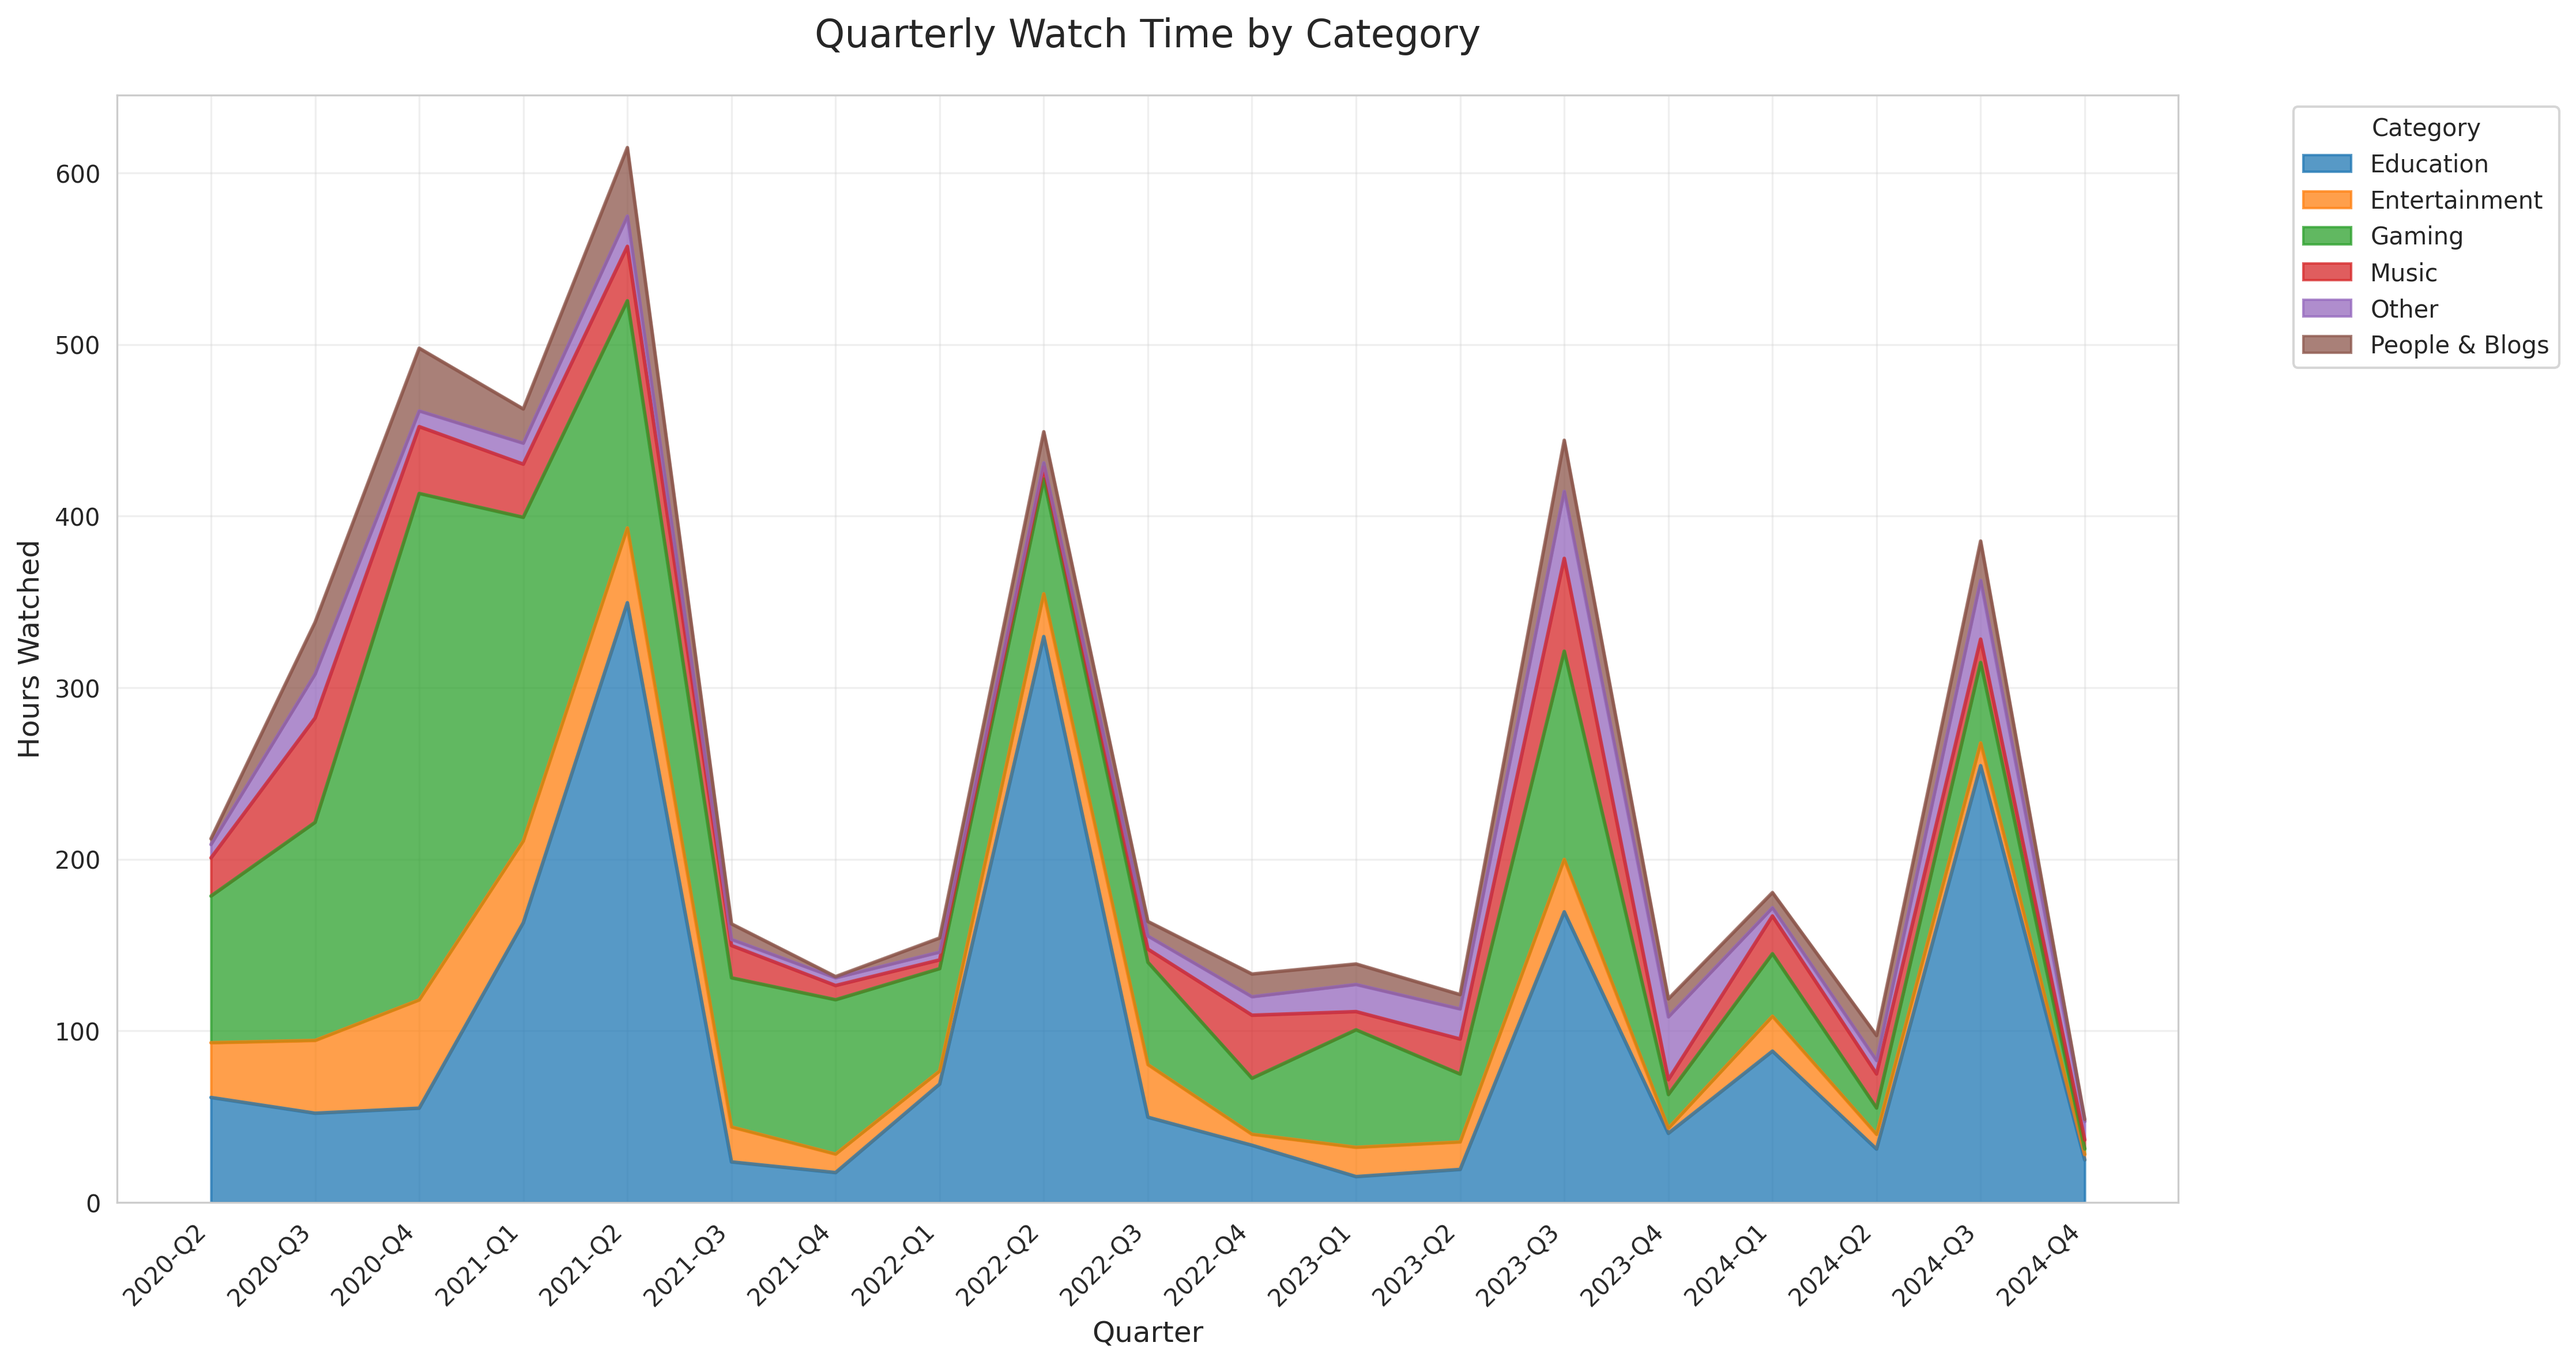
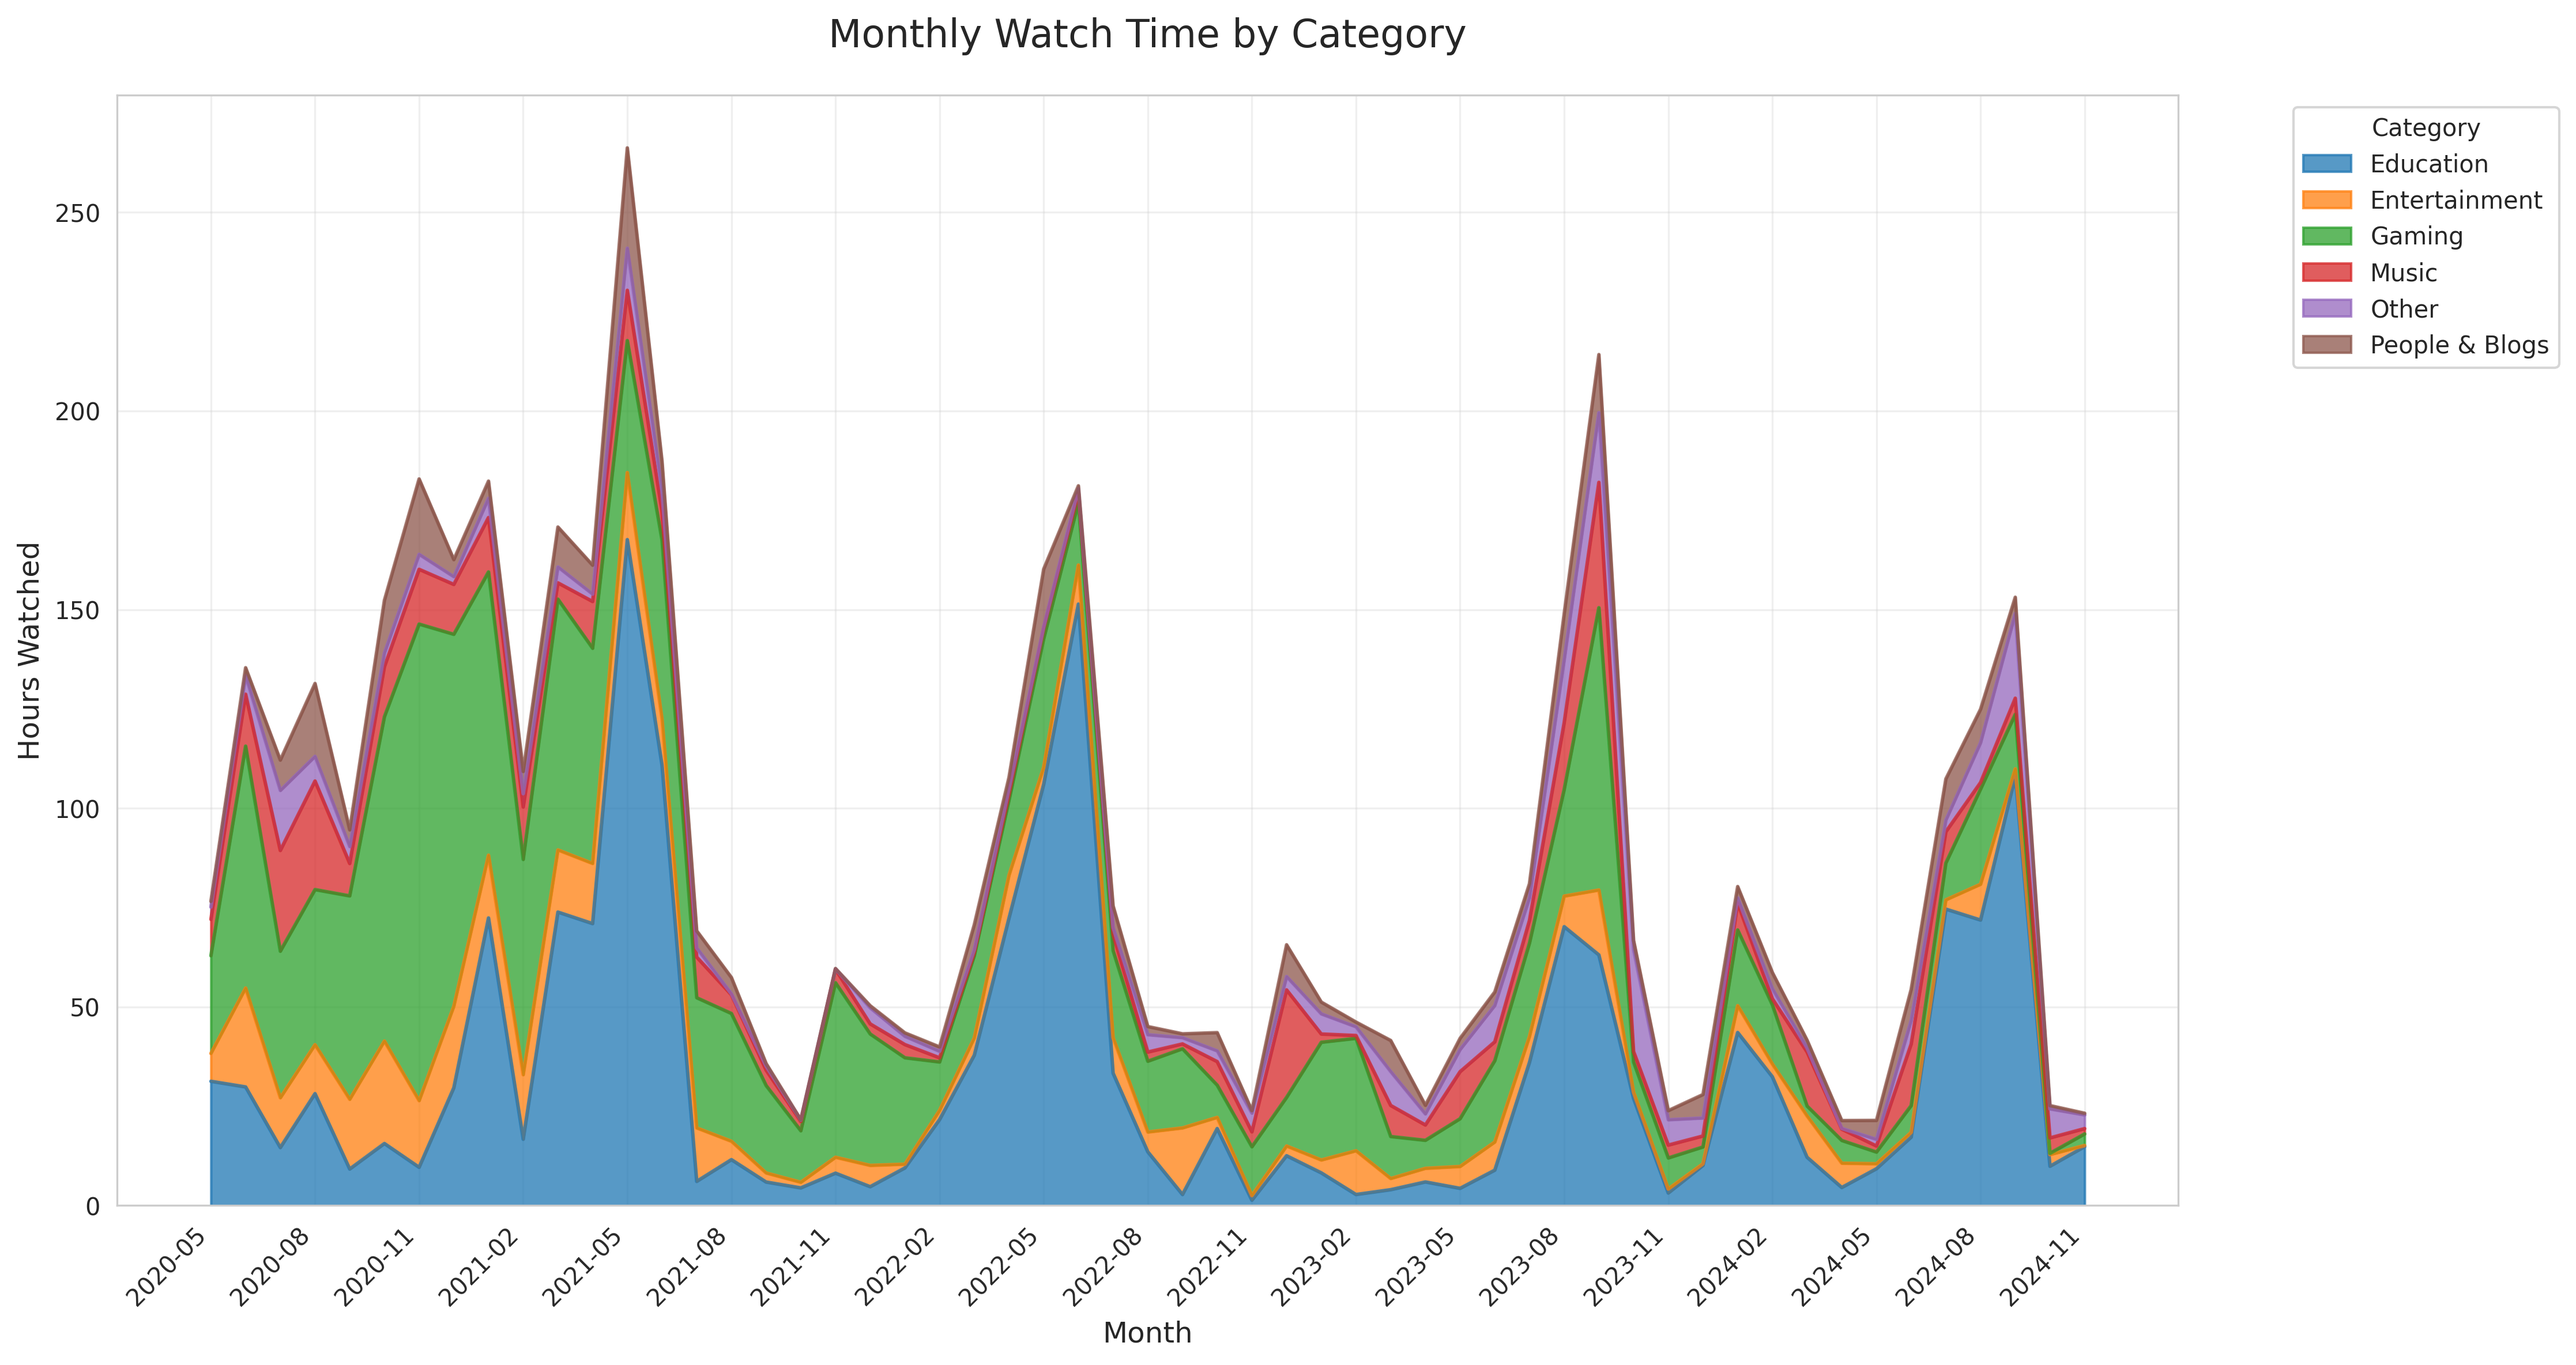
Fixed the format of visualizations

diff --git a/time_series_analysis.py b/time_series_analysis.py
@@ -51,11 +51,11 @@ def create_analysis_plots(df, output_dir='results'):
     plt.savefig(os.path.join(output_dir, 'monthly_pattern.png'), dpi=300, bbox_inches='tight')
     plt.close()
     
-    # 2. Quarterly Category Distribution
+    # 2. Monthly Category Distribution
     plt.figure(figsize=(15, 8))
     
-    # Add quarter information with better formatting
-    df['quarter'] = pd.PeriodIndex(df['watched_on'], freq='Q').astype(str).str.replace('Q', '-Q')
+    # Add month information with better formatting
+    df['month'] = pd.to_datetime(df['watched_on']).dt.strftime('%Y-%m')
     
     # Calculate total duration for each category
     category_totals = df.groupby('category')['duration'].sum().sort_values(ascending=False)
@@ -69,30 +69,34 @@ def create_analysis_plots(df, output_dir='results'):
     
     df['category_grouped'] = df['category'].map(map_category)
     
-    # Create quarterly aggregation
-    quarterly_category = df.pivot_table(
+    # Create monthly aggregation
+    monthly_category = df.pivot_table(
         values='duration',
-        index='quarter',
+        index='month',
         columns='category_grouped',
         aggfunc='sum',
         fill_value=0
     )
     
+    # Sort by month
+    monthly_category = monthly_category.sort_index()
+    
     # Create stacked area chart
-    ax = quarterly_category.plot(
+    ax = monthly_category.plot(
         kind='area',
         stacked=True,
         figsize=(15, 8),
         alpha=0.75  # Add some transparency
     )
     
-    plt.title('Quarterly Watch Time by Category', fontsize=16, pad=20)
-    plt.xlabel('Quarter', fontsize=12)
+    plt.title('Monthly Watch Time by Category', fontsize=16, pad=20)
+    plt.xlabel('Month', fontsize=12)
     plt.ylabel('Hours Watched', fontsize=12)
     
-    # Show all quarters
-    plt.xticks(range(len(quarterly_category)), 
-               quarterly_category.index,
+    # Show every third month
+    n = 3  # Show every 3rd month
+    plt.xticks(range(0, len(monthly_category), n), 
+               [monthly_category.index[i] for i in range(0, len(monthly_category), n)],
                rotation=45, ha='right')
     
     # Customize legend
